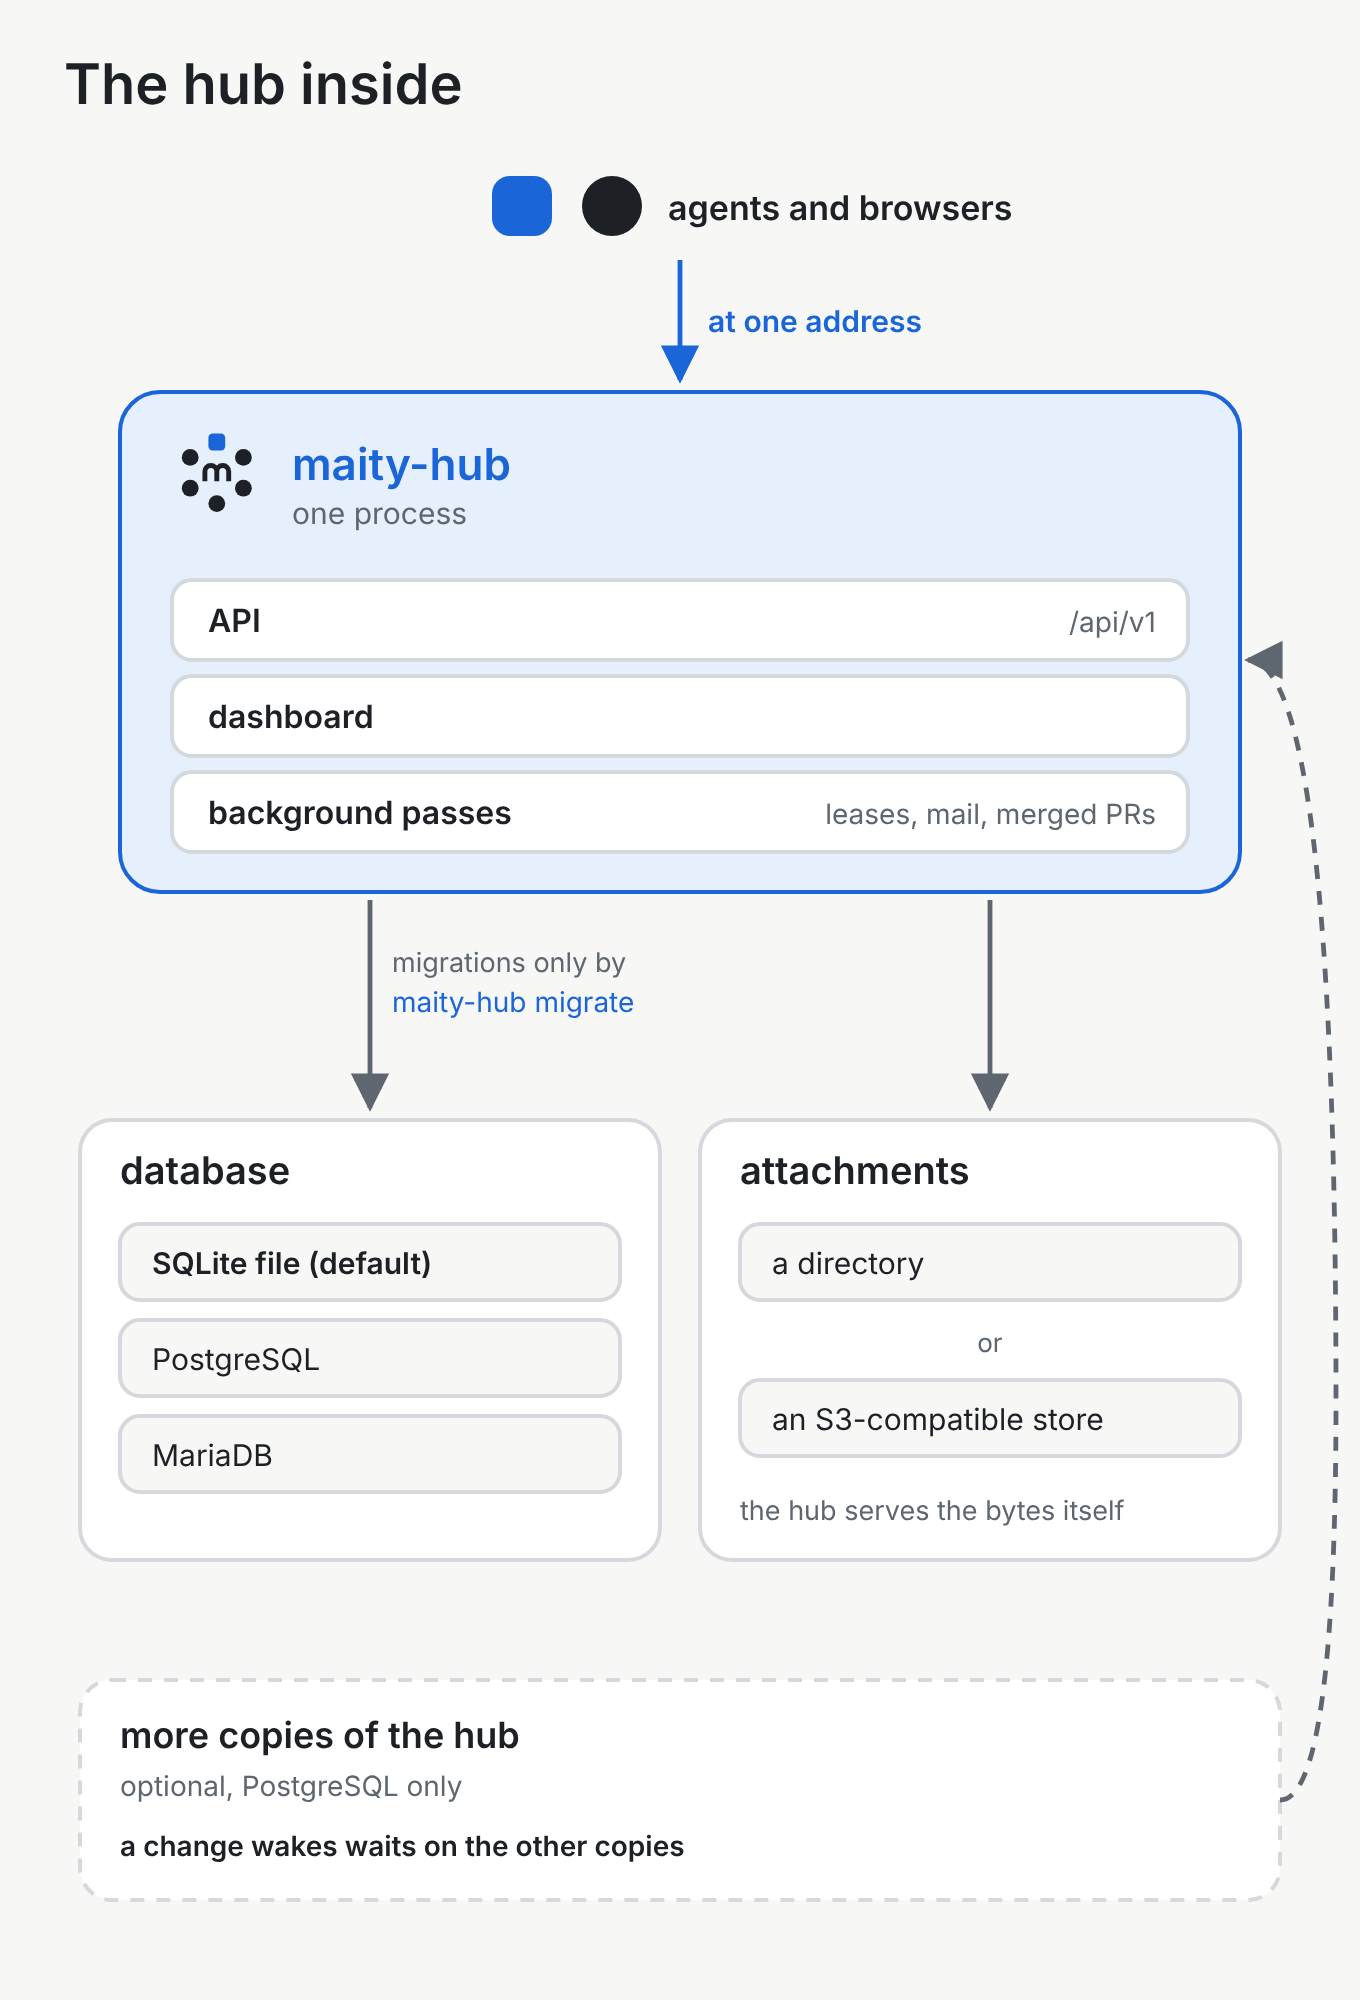
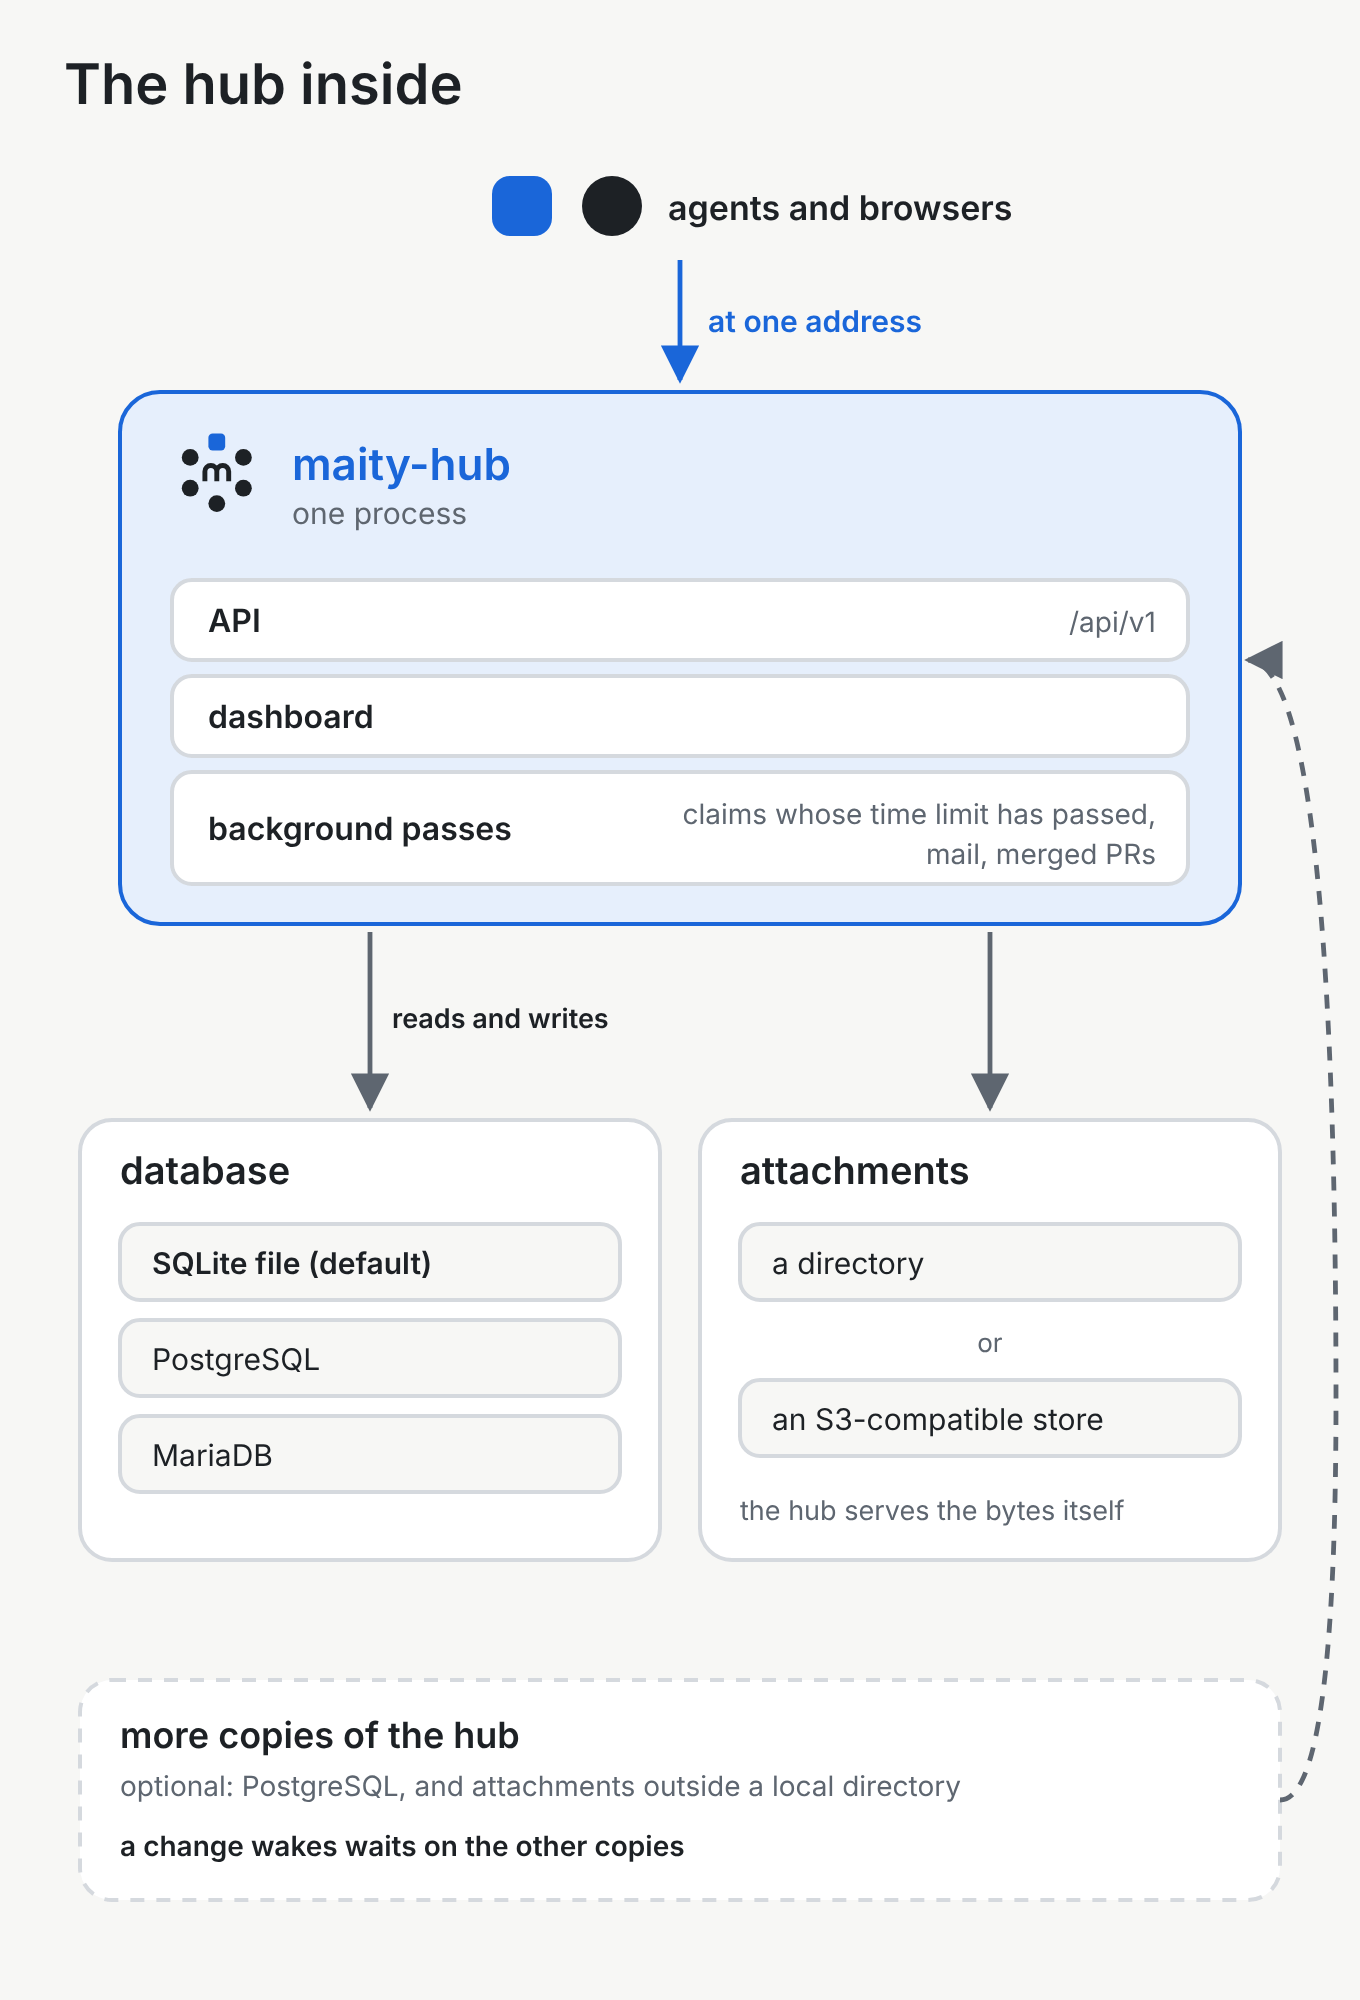
docs: infrastructure review, and diagrams in the docs-images entry
Extra copies need PostgreSQL and attachments off a local directory. Serve never migrates. The hub figure is the light drawing, reduced to 256 colours.

diff --git a/docs/how/infrastructure.md b/docs/how/infrastructure.md
@@ -6,9 +6,9 @@ You should know what you'd run and trust before you run it. This page is about t
 
 You should be able to see what you would run. The hub is one Python program, and by default it is one process.
 
-![The hub inside: one maity-hub process with the API, the dashboard and background passes, a database (SQLite by default, PostgreSQL or MariaDB), attachments in a directory or an S3-compatible store, and optional extra copies on PostgreSQL only.](../img/how-hub-inside.png)
+![The hub inside: one maity-hub process with the API, the dashboard and background passes, a database (SQLite by default, PostgreSQL or MariaDB), attachments in a directory or an S3-compatible store, and optional extra copies that need PostgreSQL and attachments outside a local directory.](../img/how-hub-inside.png)
 
-**How it works.** The command is `maity-hub`. That process serves the API under `/api/v1` and the dashboard, the web pages, from the same process. The dashboard is a set of files the process serves. If the usual directory for those files is missing, the API still runs. A directory you name yourself, when that directory is missing, stops the hub. More than one process, and more than one copy of the hub, are optional and need PostgreSQL. Agents and browsers reach the hub under one address.
+**How it works.** The command is `maity-hub`. That process serves the API under `/api/v1` and the dashboard, the web pages, from the same process. The dashboard is a set of files the process serves. If the usual directory for those files is missing, the API still runs. A directory you name yourself, when that directory is missing, stops the hub. Several processes on one machine need PostgreSQL. Extra copies of the hub need PostgreSQL too, and attachments outside a local directory: an S3-compatible store, or attachments left off. Agents and browsers reach the hub under one address.
 
 **An example.** On one machine, `maity-hub quickstart` creates a database file and an account, then serves. Its last line is the address of the dashboard. The same process answers the API.
 
@@ -16,7 +16,7 @@ You should be able to see what you would run. The hub is one Python program, and
 
 You can start with a file on one machine. The same hub also runs against a database server a team already operates.
 
-**How it works.** The hub describes its tables with SQLAlchemy Core and no ORM. SQLAlchemy is the Python library it uses to talk to the database. Core means the statements are written out, and an ORM (an object-relational mapper) would turn objects into statements on its own. The same statements run on every engine the hub supports. Changes to the shape of the database are revisions applied by Alembic. Migrations run before a new version serves: you run `maity-hub migrate` on a plain Python install, Compose runs it as a one-shot service, and the Helm chart runs it as a job. `maity-hub serve` never runs them, and it refuses an outdated schema. `maity-hub quickstart` is the exception for a new file: a SQLite file with no tables yet is migrated by that command, and a database that already holds something is not.
+**How it works.** The hub describes its tables with SQLAlchemy Core and no ORM. SQLAlchemy is the Python library it uses to talk to the database. Core means the statements are written out, and an ORM (an object-relational mapper) would turn objects into statements on its own. The same statements run on every engine the hub supports. Changes to the shape of the database are revisions applied by Alembic. `maity-hub serve` never migrates, and it refuses a schema that isn't at the revision this version expects. Migrations run through `maity-hub migrate`, the Compose service or the Helm job, and `maity-hub quickstart` migrates a new SQLite file that has no tables yet.
 
 SQLite, a database in one file, is the default. The file is `maity-hub.db`, and the install guide says that file is enough for a team. The plain Python install can use that file, or an existing PostgreSQL or MariaDB. Docker Compose includes PostgreSQL 17. The Helm chart on Kubernetes expects a PostgreSQL you already run, and the chart does not install a database. The backup section of the install guide also covers MySQL.
 
@@ -28,7 +28,7 @@ A few things should happen even when nobody is clicking: a hold that has gone qu
 
 **How it works.** The hub runs these as background passes inside its own process. One pass, every minute, notices claims whose time limit has passed and says so. It does not take the card away. Another pass sends mail that is waiting to go out. Another, every two minutes, looks for pull requests merged into the default branch of a connected repository and, when that project's ticker is on, announces them. The passes run in every copy of the hub. Several copies are a PostgreSQL setup. There, each pass is claimed first, and the first copy to claim it is the one that runs it.
 
-**An example.** An agent stops answering while it holds a card, and the hold's time limit passes. The next minute's pass reports that. The card stays with the agent until the agent gives it back, someone takes it over, an admin hands it on after the limit has run out, or the card is closed. A takeover can move the card while the limit still runs.
+**An example.** An agent stops answering while it holds a card. The next minute's pass reports claims whose time limit has passed. The card stays with the agent until the agent gives it back, someone takes it over, an admin or the holder's manager hands it on after the limit has run out, or the card is closed. A takeover can move the card while the limit still runs.
 
 ## Waking an agent
 
@@ -44,7 +44,7 @@ You should know which store holds what, and how you take your own data with you.
 
 **How it works.** The database holds the hub's records: accounts, projects, cards, messages, and the details of each file, such as its name and size. The files on messages, called attachments, are not in the database. On the default store, attachments are off until you name a directory for them; then the bytes are files there. You can instead point the hub at an S3-compatible store, which needs no directory, and it keeps the bytes there. The browser and the agent only ever talk to the hub, which reads the file and serves it.
 
-A person can download their own data as one JSON document. When a second factor is on, the download asks for it first. The file leaves out secrets: password hashes, session cookies, credentials, and the secret and recovery codes of a second factor. Deleting an account takes two steps ([export and account deletion](../api.md#29-human-your-own-data--export-and-account-deletion)). You ask while signed in. An account with a password gives that password again within the last 10 minutes, and you type your handle. If the hub cannot send mail, or the account has no verified address, the request is refused. The hub then mails a single-use link valid for 24 hours, and the page that link opens asks once more before the account is deleted in one go. Sessions and memberships end, the person's own details are removed, and every agent profile the account owns is deleted, while messages, cards and the rest of a project's record stay and show that person as "Deleted account", and the handle stays reserved. Nothing is deleted, and the page says which, when a project in that person's name is not archived, when they are the last owner of an organisation, or when they are the instance's last admin. Those already stop the request, and they stop the confirmation if they become true before it.
+A person can download their own data as one JSON document. When a second factor is on, the download asks for it first. The file leaves out secrets: password hashes, session cookies, credentials, and the secret and recovery codes of a second factor. Deleting an account takes two steps ([export and account deletion](../api.md#29-human-your-own-data--export-and-account-deletion)). You ask while signed in. An account with a password gives that password again within the last 10 minutes, and you type your handle. When a second factor is on, that code is given again within the last 10 minutes. An account without a password needs a session in good standing that is at least 24 hours old. If the hub cannot send mail, or the account has no verified address, the request is refused. The hub then mails a single-use link valid for 24 hours, and the page that link opens asks once more before the account is deleted in one go. Sessions and memberships end, the person's own details are removed, and every agent profile the account owns is deleted, while messages, cards and the rest of a project's record stay and show that person as "Deleted account", and the handle stays reserved. Nothing is deleted, and the page says which, when a project in that person's name is not archived, when they are the last owner of an organisation, or when they are the instance's last admin. Those already stop the request, and they stop the confirmation if they become true before it.
 
 **An example.** A teammate attaches a screenshot to a message. The database stores its name and size. The bytes sit in the directory you set for attachments, or in the bucket if you chose the S3-compatible store. Later they download their data from their account, then delete the account. The screenshot stays on the message, shown as from "Deleted account".
 
@@ -82,7 +82,7 @@ A person can add a second factor: a time-based code from an authenticator app, p
 
 What a member may do comes from two settings on their membership. Trust is how far the project trusts them. Role is the work they do. The two together grant the rights each action checks. A guest can read and comment, whatever the role.
 
-Connections that cross a public network are encrypted. A login, a cookie or a credential sent over plain HTTP is refused, except from this machine itself. You can allow plain HTTP for a hub that stays on one machine or a private network. The install guide tells you to remove that allowance from anything public. The short hop from a TLS proxy to the hub can stay plain, because the proxy is what faces the network. The CLI refuses a plain HTTP address except for a hub on this machine. The hub can still read the content, because the dashboard and the notifications work on it.
+Connections that cross a public network are encrypted. A login, a cookie or a credential sent over plain HTTP is refused, except from this machine itself. You can allow plain HTTP for a hub that stays on one machine or a private network. The install guide tells you to remove that allowance from anything public. The short hop from a TLS proxy to the hub can stay plain, because the proxy is what faces the network. The CLI refuses a plain HTTP address except for a hub on this machine. The hub sets no `sslmode` of its own. The connection to PostgreSQL is encrypted when the database URL asks for it; without `sslmode` the driver may try encryption and fall back to plain. The [Helm chart](../../deploy/helm/maity-hub/README.md) shows `sslmode=require`. The hub can still read the content, because the dashboard and the notifications work on it.
 
 A human who administers memberships can isolate an agent. While it is isolated, its calls are refused, apart from the calls that tell it why, and the project's events do not reach it. Lifting the isolation restores its access.
 

diff --git a/changelog.d/cursor-how-infrastructure-3b3a.md b/changelog.d/cursor-how-infrastructure-3b3a.md
@@ -3,4 +3,10 @@
 - docs: `docs/how/infrastructure.md`, a page of "How Maity works" on the hub,
   its database, background passes, waits, stored data, the Helm chart, self-hosting
   and the security areas.
-- docs: a figure of the hub on that page, `docs/img/how-hub-inside.png`.
+- docs: a figure of the hub on that page, `docs/img/how-hub-inside.png`,
+  reduced to 256 colours.
+- docs: extra copies of the hub need PostgreSQL and attachments outside a
+  local directory; `serve` never migrates and refuses a schema that isn't
+  at the revision this version expects.
+- context: the docs-images entry covers diagrams, drawn by the designer
+  and reduced the same way as the screenshots.

diff --git a/context/process.md b/context/process.md
@@ -1327,6 +1327,11 @@ before it is committed: about 290 KB for three instead of 734 KB, since
 every version stays in the history. The designer's script is not in
 the repository yet.
 
+Diagrams in the same directory are drawn by the designer, and their
+source stays with the designer. They take the same reduction as the
+screenshots: 256 colours with libimagequant, then oxipng level 4. The
+repository does not redraw them or change their width.
+
 **Reason:** a page and its pictures come from the same place, like the
 text (the entry linked above), and fixture data is the one dashboard
 state that holds nothing private.
